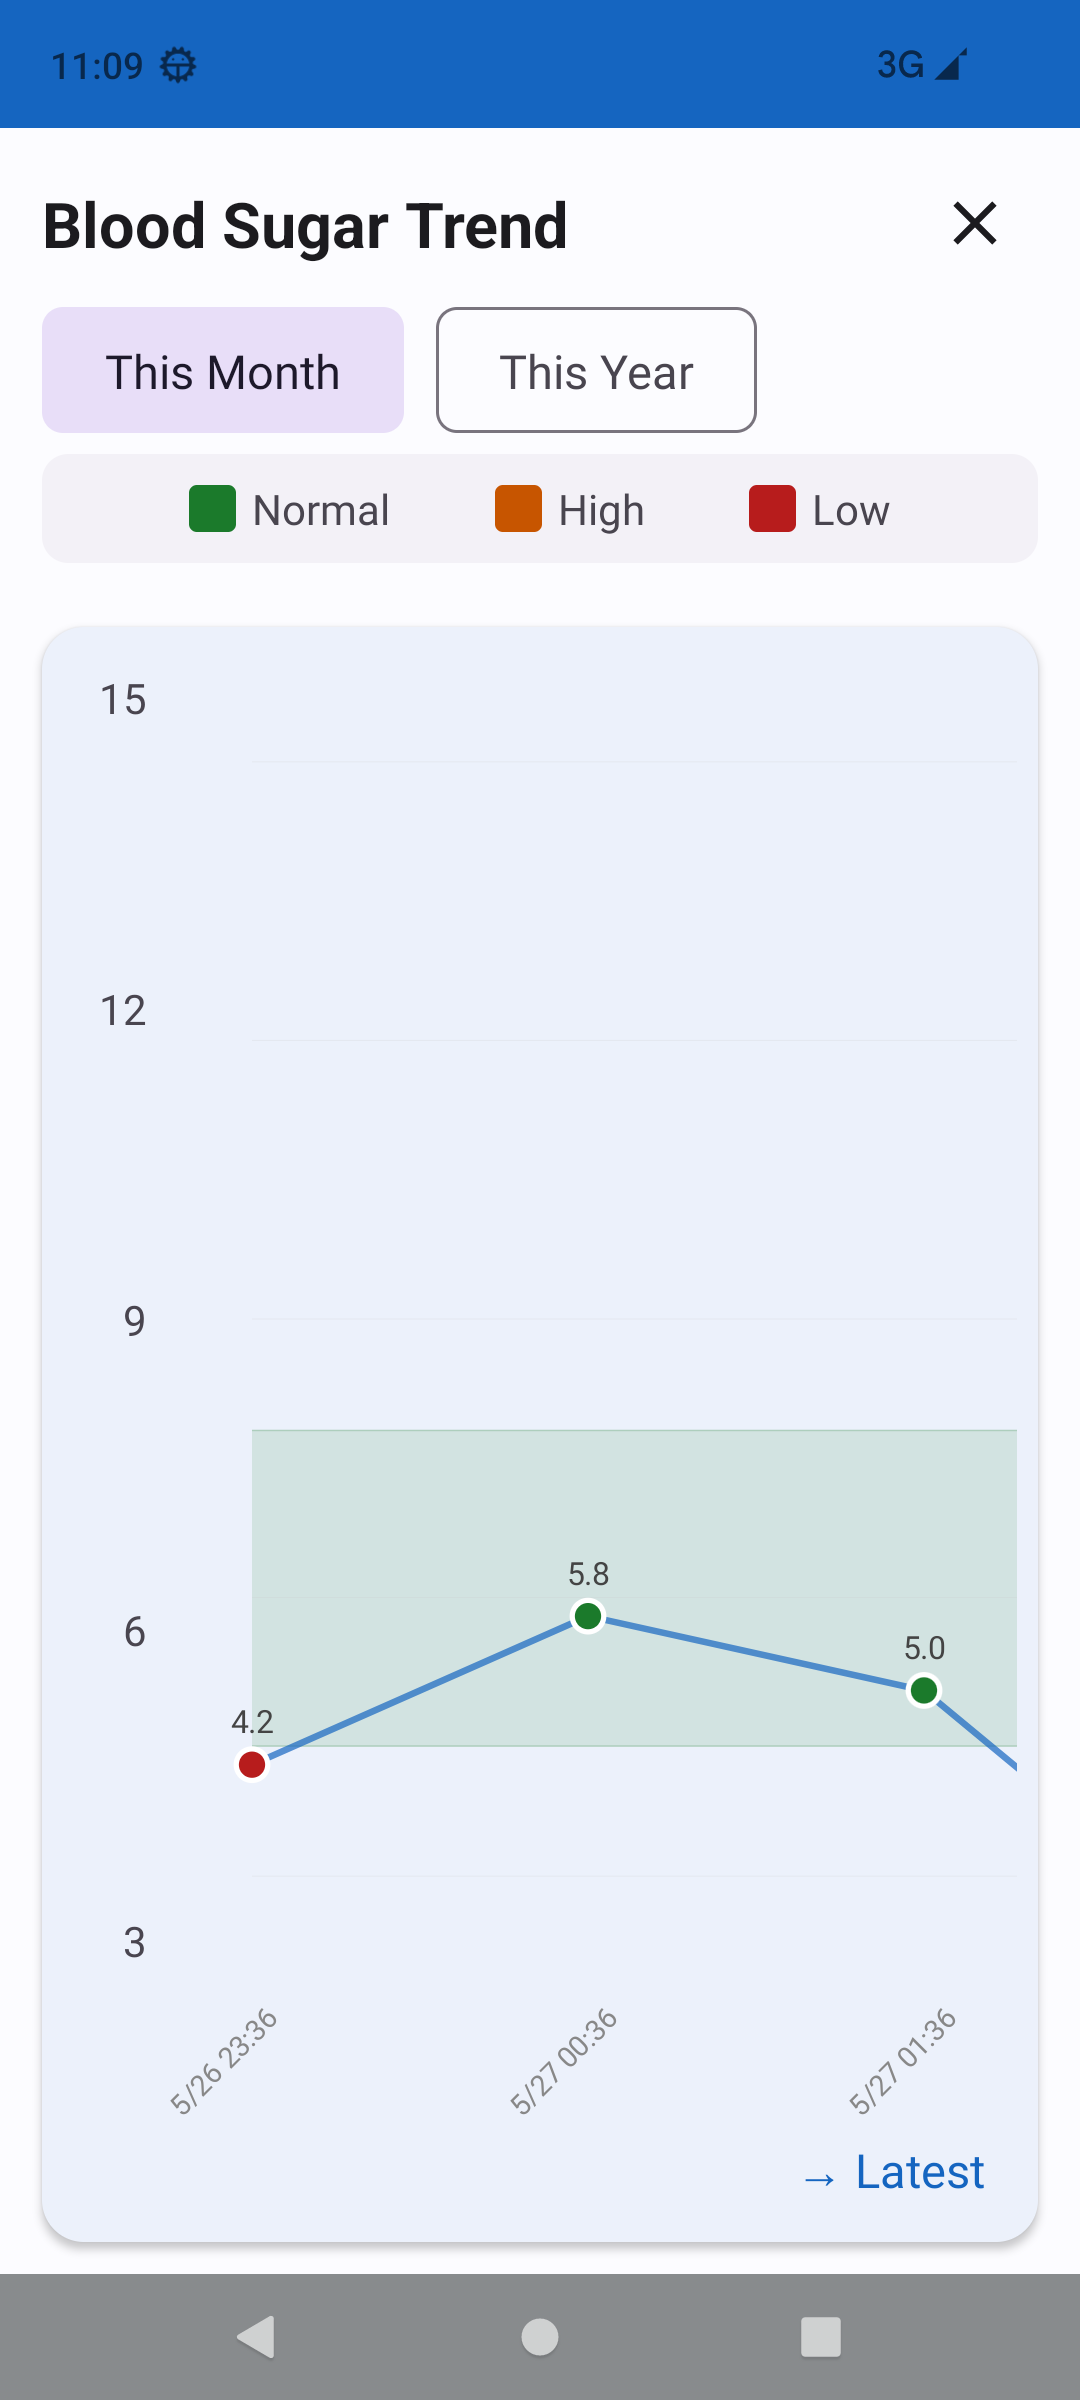
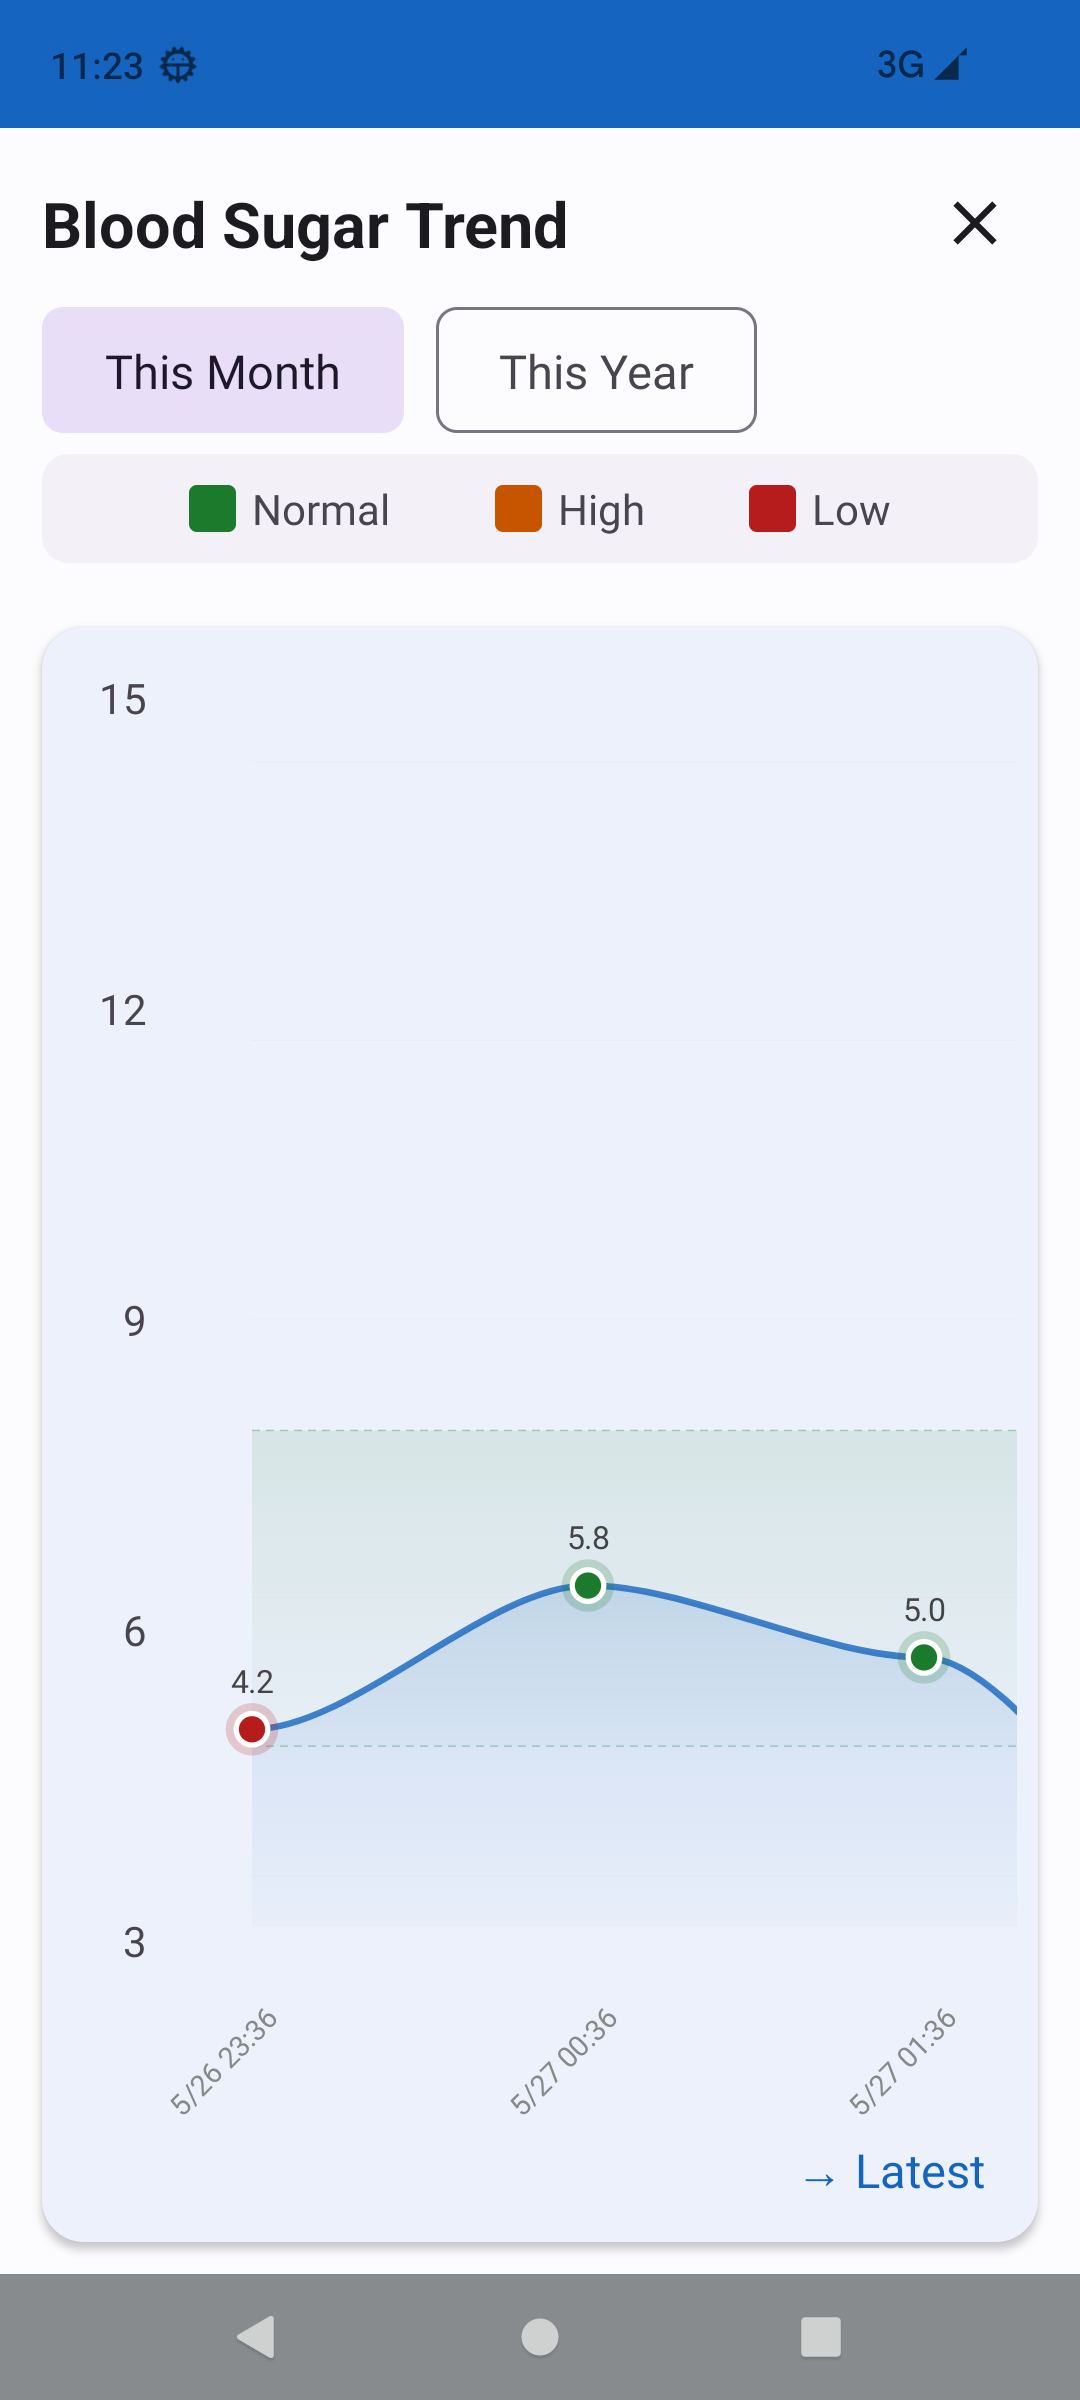
feat: improve trend chart with smooth bezier curves and gradient fill
- Cubic bezier interpolation for smooth data lines
- Gradient fill under the curve for visual depth
- Dashed borders for normal range band
- Outer glow effect on data points
- Better overall chart aesthetics

diff --git a/app/src/main/java/com/bloodsugar/ui/ChartOverlay.kt b/app/src/main/java/com/bloodsugar/ui/ChartOverlay.kt
@@ -15,8 +15,10 @@ import androidx.compose.runtime.*
 import androidx.compose.ui.Alignment
 import androidx.compose.ui.Modifier
 import androidx.compose.ui.geometry.Offset
+import androidx.compose.ui.graphics.Brush
 import androidx.compose.ui.graphics.Color
 import androidx.compose.ui.graphics.Path
+import androidx.compose.ui.graphics.PathEffect
 import androidx.compose.ui.graphics.StrokeCap
 import androidx.compose.ui.graphics.drawscope.Stroke
 import androidx.compose.ui.graphics.nativeCanvas
@@ -38,7 +40,6 @@ fun ChartOverlay(
     records: List<Record>,
     onDismiss: () -> Unit
 ) {
-    // Time range: This Month / This Year
     var selectedRange by remember { mutableStateOf("month") }
 
     val filteredRecords = remember(records, selectedRange) {
@@ -59,7 +60,7 @@ fun ChartOverlay(
             .clickable(
                 interactionSource = remember { MutableInteractionSource() },
                 indication = null
-            ) { /* Intercept clicks to prevent pass-through */ }
+            ) { }
     ) {
         Column(
             modifier = Modifier
@@ -89,9 +90,7 @@ fun ChartOverlay(
             Spacer(modifier = Modifier.height(8.dp))
 
             // Month/Year filter chips
-            Row(
-                horizontalArrangement = Arrangement.spacedBy(12.dp)
-            ) {
+            Row(horizontalArrangement = Arrangement.spacedBy(12.dp)) {
                 FilterChip(
                     selected = selectedRange == "month",
                     onClick = { selectedRange = "month" },
@@ -201,7 +200,6 @@ fun ChartOverlay(
 
                         // Horizontally scrollable chart + X-axis labels
                         Column(modifier = Modifier.weight(1f).fillMaxHeight()) {
-                            // Canvas chart area (no X-axis labels)
                             Box(
                                 modifier = Modifier
                                     .weight(1f)
@@ -217,7 +215,6 @@ fun ChartOverlay(
                                 )
                             }
 
-                            // X-axis time labels (independent area, shared scrollState)
                             Box(
                                 modifier = Modifier
                                     .fillMaxWidth()
@@ -233,7 +230,6 @@ fun ChartOverlay(
                                 )
                             }
 
-                            // Scroll-to-latest button
                             if (chartWidth > minChartWidth) {
                                 Box(
                                     modifier = Modifier.fillMaxWidth(),
@@ -324,8 +320,9 @@ fun BloodSugarChart(
     records: List<Record>,
     modifier: Modifier = Modifier
 ) {
-    val normalColor = GlucoseNormal.copy(alpha = 0.12f)
-    val normalBorder = GlucoseNormal.copy(alpha = 0.25f)
+    val normalBandTop = GlucoseNormal.copy(alpha = 0.10f)
+    val normalBandBottom = GlucoseNormal.copy(alpha = 0.02f)
+    val normalBorder = GlucoseNormal.copy(alpha = 0.30f)
     val lineColor = Primary
     val screenDensity = LocalDensity.current.density
 
@@ -336,29 +333,40 @@ fun BloodSugarChart(
         val maxY = 16.0f
         val rangeY = maxY - minY
         val leftPadding = 8f * screenDensity
+        val bottomPadding = 16f * screenDensity
 
-        // Normal range background band (4.4 - 7.8)
+        // Normal range background band (4.4 - 7.8) with gradient
         val normalTop = height * (1 - (7.8f - minY) / rangeY)
         val normalBottom = height * (1 - (4.4f - minY) / rangeY)
         drawRect(
-            color = normalColor,
+            brush = Brush.verticalGradient(
+                colors = listOf(normalBandTop, normalBandBottom),
+                startY = normalTop,
+                endY = normalBottom
+            ),
             topLeft = Offset(leftPadding, normalTop),
             size = androidx.compose.ui.geometry.Size(width - leftPadding, normalBottom - normalTop)
         )
-        drawLine(normalBorder, Offset(leftPadding, normalTop), Offset(width, normalTop), strokeWidth = 1.5f)
-        drawLine(normalBorder, Offset(leftPadding, normalBottom), Offset(width, normalBottom), strokeWidth = 1.5f)
+        // Dashed borders for normal range
+        val dashEffect = PathEffect.dashPathEffect(floatArrayOf(8f, 6f), 0f)
+        drawLine(
+            normalBorder, Offset(leftPadding, normalTop), Offset(width, normalTop),
+            strokeWidth = 1.5f, pathEffect = dashEffect
+        )
+        drawLine(
+            normalBorder, Offset(leftPadding, normalBottom), Offset(width, normalBottom),
+            strokeWidth = 1.5f, pathEffect = dashEffect
+        )
 
-        val axisTextSize = 11f * screenDensity
-
-        // Y-axis grid lines
+        // Y-axis grid lines (subtle)
         val ySteps = listOf(3f, 6f, 9f, 12f, 15f)
         ySteps.forEach { value ->
             val y = height * (1 - (value - minY) / rangeY)
             drawLine(
-                Color.LightGray.copy(alpha = 0.25f),
+                Color.LightGray.copy(alpha = 0.15f),
                 Offset(leftPadding, y),
                 Offset(width, y),
-                strokeWidth = 1f
+                strokeWidth = 0.8f
             )
         }
 
@@ -367,38 +375,66 @@ fun BloodSugarChart(
         val usableWidth = width - leftPadding
         val stepX = if (count > 1) usableWidth / (count - 1) else usableWidth
 
-        // Line chart + data points
         if (records.isNotEmpty()) {
-            val path = Path()
-            records.forEachIndexed { index, record ->
+            // Build points list
+            data class Point(val x: Float, val y: Float)
+            val points = records.mapIndexed { index, record ->
                 val x = leftPadding + if (count > 1) index * stepX else usableWidth / 2
-                val y = height * (1 - (record.value.coerceIn(minY, maxY) - minY) / rangeY)
+                val y = (height - bottomPadding) * (1 - (record.value.coerceIn(minY, maxY) - minY) / rangeY)
+                Point(x, y)
+            }
 
-                if (index == 0) {
-                    path.moveTo(x, y)
-                } else {
-                    path.lineTo(x, y)
+            // Build smooth cubic bezier path
+            val linePath = Path().apply {
+                moveTo(points.first().x, points.first().y)
+                for (i in 1 until points.size) {
+                    val prev = points[i - 1]
+                    val curr = points[i]
+                    val tension = 0.3f
+                    val dx = (curr.x - prev.x) * tension
+                    cubicTo(
+                        prev.x + dx, prev.y,
+                        curr.x - dx, curr.y,
+                        curr.x, curr.y
+                    )
                 }
             }
 
-            // Draw line first (unified color)
+            // Gradient fill under the line
+            val fillPath = Path().apply {
+                addPath(linePath)
+                lineTo(points.last().x, height - bottomPadding)
+                lineTo(points.first().x, height - bottomPadding)
+                close()
+            }
             drawPath(
-                path = path,
-                color = lineColor.copy(alpha = 0.7f),
+                path = fillPath,
+                brush = Brush.verticalGradient(
+                    colors = listOf(
+                        Primary.copy(alpha = 0.15f),
+                        Primary.copy(alpha = 0.02f)
+                    ),
+                    startY = points.minOf { it.y },
+                    endY = height - bottomPadding
+                )
+            )
+
+            // Draw smooth line
+            drawPath(
+                path = linePath,
+                color = lineColor.copy(alpha = 0.8f),
                 style = Stroke(width = 2.5f * screenDensity, cap = StrokeCap.Round)
             )
 
-            // Draw data points (colored by status + white border + value label)
+            // Draw data points with shadow effect
             val valuePaint = android.graphics.Paint().apply {
                 color = android.graphics.Color.DKGRAY
                 textSize = 12f * screenDensity
                 isAntiAlias = true
                 textAlign = android.graphics.Paint.Align.CENTER
             }
-            records.forEachIndexed { index, record ->
-                val x = leftPadding + if (count > 1) index * stepX else usableWidth / 2
-                val y = height * (1 - (record.value.coerceIn(minY, maxY) - minY) / rangeY)
-
+            points.forEachIndexed { index, point ->
+                val record = records[index]
                 val pointColor = when {
                     record.value < 4.4f -> GlucoseLow
                     record.value <= 7.8f -> GlucoseNormal
@@ -408,20 +444,26 @@ fun BloodSugarChart(
                 // Value label above data point
                 val valueLabel = "%.1f".format(record.value)
                 drawContext.canvas.nativeCanvas.drawText(
-                    valueLabel, x, y - 12f * screenDensity, valuePaint
+                    valueLabel, point.x, point.y - 14f * screenDensity, valuePaint
                 )
 
+                // Outer glow
+                drawCircle(
+                    color = pointColor.copy(alpha = 0.2f),
+                    radius = 10f * screenDensity,
+                    center = Offset(point.x, point.y)
+                )
                 // White border
                 drawCircle(
                     color = Color.White,
                     radius = 7f * screenDensity,
-                    center = Offset(x, y)
+                    center = Offset(point.x, point.y)
                 )
                 // Colored dot
                 drawCircle(
                     color = pointColor,
                     radius = 5f * screenDensity,
-                    center = Offset(x, y)
+                    center = Offset(point.x, point.y)
                 )
             }
         }